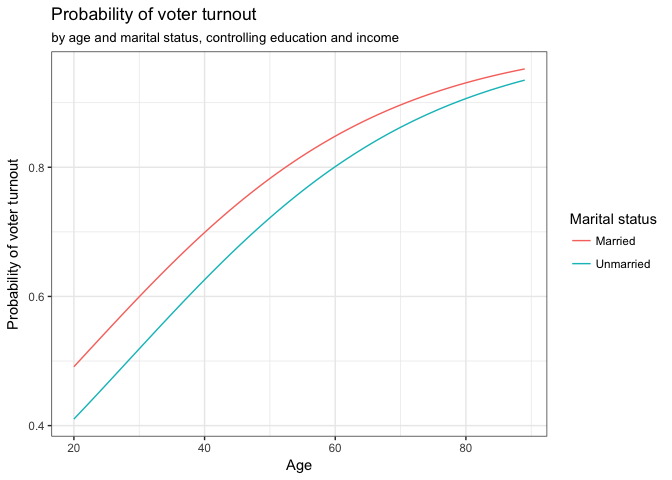
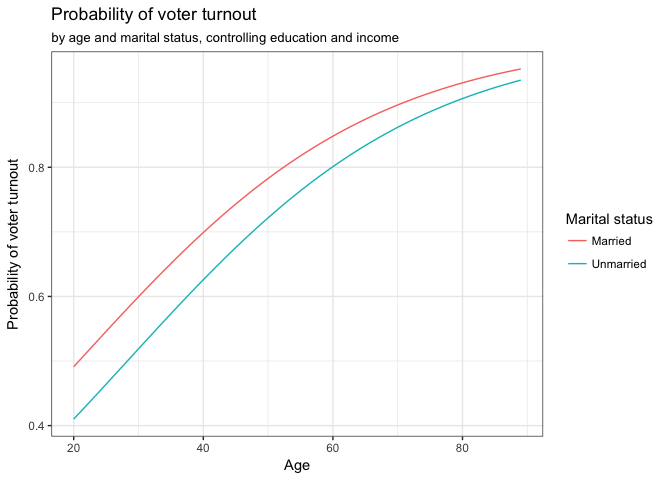
some modifications

diff --git a/students/Ju_Tong/PS6/ps6.md b/students/Ju_Tong/PS6/ps6.md
@@ -82,7 +82,9 @@ pander(m)
 </tbody>
 </table>
 
-1)As the table shown above, the unconditional probability of a given individual turning out to vote is 68.24%. 2)The scatterplot with the linear smoothing line indicates, in general, people who are more depressive (with higher value of mental health index) will be less likely to vote. Therefore, there is certain association between mental health with the action of voting based on this plotting. However, this graph is very misleading when considering the relationship between voting status (binary variable) and the mental health index (discrete variable): 1) most importantly,the voter turnout follows the binorminal distribution, whose feature cannot be captured by the linear relationship. Since voter turnout is dichotomous, with no possile outcomes in between, the regression line is misleading. 2) Even though we consider the predicted value by the regression line between 0 and 1 as the predicted probability, there are still other problems: because the regression line is linear and continuous, it extends infinitely in both directions of the mental health index. But as we know, the predictions based on the mental health value, lower than 0 or higher than 9, do not make any sense. 3) According to this linear regression, there is no upper and lower bound for the predicted voting probability, the prediction may exceed 1.0 or may be lower than 0, which do not comply with the definition that the probability is between 0 and 1.
+1)As the table shown above, the unconditional probability of a given individual turning out to vote is 68.24%.
+
+2)The scatterplot with the linear smoothing line indicates, in general, people who are more depressive (with higher value of mental health index) will be less likely to vote. Therefore, there is certain association between mental health with the action of voting based on this plotting. However, this graph is very misleading when considering the relationship between voting status (binary variable) and the mental health index (discrete variable): 1) most importantly,the voter turnout follows the binorminal distribution, whose feature cannot be captured by the linear relationship. Since voter turnout is dichotomous, with no possile outcomes in between, the regression line is misleading. 2) Even though we consider the predicted value by the regression line between 0 and 1 as the predicted probability, there are still other problems: because the regression line is linear and continuous, it extends infinitely in both directions of the mental health index. But as we know, the predictions based on the mental health value, lower than 0 or higher than 9, do not make any sense. 3) According to this linear regression, there is no upper and lower bound for the predicted voting probability, the prediction may exceed 1.0 or may be lower than 0, which do not comply with the definition that the probability is between 0 and 1.
 
 2) Basic Model
 ==============
@@ -171,7 +173,7 @@ basic_pred<-df %>%
   mutate(odds = prob2odds(prob))
 ```
 
-1)We find a statistically significant relationship at the p &lt; .0005 level between depression score and voting behavior. The relationship is negative and the coefficient is -0.1435. Therefore, we can conclude that there is a statistically significant. The co-effecient on `mhealth_sum` is -0.1435, indicating that one-unit increase in depression score could result in the decrease of log-odds of voting by 0.1435. Thus, the association between these two variable is moderately substantive and negative.
+1)We find a statistically significant relationship at the p &lt; .0005 level between depression score and voting behavior. The relationship is negative ,and the co-effecient on `mhealth_sum` is -0.1435, indicating that one-unit increase in depression score could result in the decrease of log-odds of voting by 0.1435. Thus, the association between these two variable is moderately substantive and negative.
 
 ``` r
 # log odds plotting
@@ -201,7 +203,7 @@ ggplot(basic_pred, aes(mhealth_sum)) +
 
 ![](ps6_files/figure-markdown_github/basic%20model%203-1.png)
 
-3)Interpretation of the estimated parameter for mental health in terms of odds: as each one unit increase in mental health score, we expect to see 86.63% (note: it is calculated from exp(-0.1435) ) decrease of the odds of voting.
+3)Interpretation of the estimated parameter for mental health in terms of odds: as each one unit increase in mental health score, we expect to see 86.63% (note: it is calculated from exp(-0.1435) ) decrease of the odds of voting. ( note: A one-unit increase in `mhealth_sum` corresponds to a differential decrease in the odds of voter turnout. The amount of the change in the odds of voter turnout depends on the initial value of `mhealth_sum`; In addition, the 86.63% means "decrease to 95.88% of the initial odds")
 
 ``` r
 # probability plotting
@@ -409,7 +411,9 @@ pander(summary(logit_m))
 
 3)Based on the summarized table above, three variables in this model have statistically significant associations (p-value &lt; 0.005) with voting variable: p-value for age, education, and income are 2.125e-20 , 3.052e-16 , and 0.002008. For variable of married status has only moderately statistical significance with voting rurnout, p-value is around 0.03051. In addition, all four independent variables have positive relation with voter turnout, and the co-effecient on age, education, maritial status and income are 0.04388, 0.3279, 0.08077, separately.
 
-Interpretation of co-effecients in terms of log odds, odds: As each one year increase in age, we expect the log-odds of voting status to increase by 0.04388;and expect to see see 104.49% increase in the odds of voting, when holding other variables constant. As each one year increase in education year, we expect the log-odds of voting status to increase by 0.2384; and expect to see see 126.93% increase in the odds of voting, when holding other variables constant. As each 10k increase in annual income, we expect the log-odds of voting status to increase by 0.08077; and expect to see see 108.41% increase in the odds of voting, when holding other variables constant. Married people has higher log odds of voting than unmarried ones by factor of 0.3279; or say, Married people has increased their odds of voting by 138.81% than those unmarried ones, when controlling all the other variables.
+Interpretation of co-effecients in terms of log odds, odds and probability: (Note:The amount of the change in the odds of voter turnout depends on the initial values. So in this section, when I talk about the odds change, I compare the odds variation before and after one unit change in independent variables)
+
+As each one year increase in age, we expect the log-odds of voting status to increase by 0.04388;and expect to see 104.49% increase in the odds of voting, when holding other variables constant.(Note: the 104.49% means "increase to 104.49% of the initial odds". All the following percentages have the similar meaning.) As each one year increase in education year, we expect the log-odds of voting status to increase by 0.2384; and expect to see 126.93% increase in the odds of voting, when holding other variables constant. As each 10k increase in annual income, we expect the log-odds of voting status to increase by 0.08077; and expect to see 108.41% increase in the odds of voting, when holding other variables constant. Married people has higher log odds of voting than unmarried ones by factor of 0.3279; or say, Married people have 138.81% fold odds than those unmarried ones, when controlling all the other variables.
 
 Holding the income and education year as their means, the probability of voting is estimated by age and maritial status. The result is plotted as below, which indicates that as the age increases, the probability of being a viter will increase, and the married people are more likely to vote than those who are unmarried. Taken together, people who are elder and married have higher possibility to vote than those younger and unmarried. For example, At age 20, the turnout rate is 5% higher for married people than unmarried people; at age 80, the difference shrinks to around 2.5%. This result is consistent with the literature's hypothesis.
 
@@ -424,7 +428,7 @@ pred_1<- df %>%
 ggplot (pred_1 , aes(age, prob, color = ifelse(married == 1, 'Married', 'Unmarried')))+
   theme_bw()+
   geom_line() +
-  scale_color_discrete(name = "Marital status") +
+  scale_color_discrete(name = "Marital status ") +
   labs(title = "Probability of voter turnout",
        subtitle = "by age and marital status, controlling education and income",
        x = "Age",
@@ -446,14 +450,16 @@ pred_2<- df %>%
 ggplot (pred_2 , aes(educ, prob, color = ifelse(married == 1, 'Married', 'Unmarried')))+
   theme_bw()+
   geom_line() +
-  scale_color_discrete(name = "Marital status") +
+  scale_color_discrete(name = "Marital status ") +
   labs(title = "Probability of voter turnout",
        subtitle = "by education and marital status, controlling age and income",
        x = "Education years",
        y = "Probability of voter turnout")
 ```
 
-![](ps6_files/figure-markdown_github/multi%203-1.png) These two plots have shown there are positive relationship between age or education year with the probability to vote. In addition, married people are more likely to vote than those unmarried.
+![](ps6_files/figure-markdown_github/multi%203-1.png)
+
+These two plots have shown there are positive relationships between age or education year with the probability to vote. In addition, married people are more likely to vote than those unmarried.
 
 4) Modeling TV Consumption
 ==========================
@@ -469,3 +475,130 @@ Linear predictor: The linear preditor is the following log-linear regression mod
 Link function: The link function for the Poisson distribution is the log function:
 
 ![](data/4-3.png)
+
+2)Estimate the model and report results:
+
+``` r
+#Fit model
+poisson_1 <- glm(tvhours ~ educ + hrsrelax + black, data = gss, family = quasipoisson)
+pander(summary(poisson_1))
+```
+
+<table style="width:86%;">
+<colgroup>
+<col width="25%" />
+<col width="15%" />
+<col width="18%" />
+<col width="13%" />
+<col width="13%" />
+</colgroup>
+<thead>
+<tr class="header">
+<th align="center"> </th>
+<th align="center">Estimate</th>
+<th align="center">Std. Error</th>
+<th align="center">t value</th>
+<th align="center">Pr(&gt;|t|)</th>
+</tr>
+</thead>
+<tbody>
+<tr class="odd">
+<td align="center"><strong>educ</strong></td>
+<td align="center">-0.04208</td>
+<td align="center">0.008189</td>
+<td align="center">-5.139</td>
+<td align="center">3.317e-07</td>
+</tr>
+<tr class="even">
+<td align="center"><strong>hrsrelax</strong></td>
+<td align="center">0.03702</td>
+<td align="center">0.006772</td>
+<td align="center">5.466</td>
+<td align="center">5.807e-08</td>
+</tr>
+<tr class="odd">
+<td align="center"><strong>black</strong></td>
+<td align="center">0.4463</td>
+<td align="center">0.05084</td>
+<td align="center">8.779</td>
+<td align="center">7.032e-18</td>
+</tr>
+<tr class="even">
+<td align="center"><strong>(Intercept)</strong></td>
+<td align="center">1.257</td>
+<td align="center">0.1207</td>
+<td align="center">10.41</td>
+<td align="center">3.7e-24</td>
+</tr>
+</tbody>
+</table>
+
+(Dispersion parameter for quasipoisson family taken to be 1.176556 )
+
+<table style="width:61%;">
+<colgroup>
+<col width="26%" />
+<col width="34%" />
+</colgroup>
+<tbody>
+<tr class="odd">
+<td align="center">Null deviance:</td>
+<td align="left">1229 on 1005 degrees of freedom</td>
+</tr>
+<tr class="even">
+<td align="center">Residual deviance:</td>
+<td align="left">1062 on 1002 degrees of freedom</td>
+</tr>
+</tbody>
+</table>
+
+Through examination of the models with variables provided forward and backward,education, relaxed hours,and black (or not) are chosen as the predictors estimating the voter turnout, since these three show stronger relationships in the tested models with the tv hours than others do. The model is estimated and reported as in the table above.
+
+3)As shown in the above table, all of three variables have statistically significant relationship with tv hours, the p-value for education, relaxed hours, and `black` are 3.317e-07, 5.807e-08, and 7.032e-18, respectively.Relaxed hours and `black` have positive relation with tv consumption, while education has a negative relation with it. The coeffeicent on each variable predicted by this model can be interpreted as below:
+
+As each one year increase in education year, we expect the log-counts of tv consumption to decrease by 0.04208 on average, when holding other variables constant; As each one hour increase in relax time, we expect the log-counts of tv consumption to increase by 0.03702 on average, when holding other variables constant; As for the coeffecient on `black`: On average, black people have higher log-counts of tv consumption than non-black ones by factor of 0.4463, when holding other variables constant.
+
+Since the estimated count of tv consumption hours is not in a linear relation with the independent varaibles, we cannot simply interpret the co-effecients in terms of the counts without regarding the initial count in comparison. First, I hold the education as its average value, and then examine how the ethinicity and relaxed hour can effect hours of tv consumption. According to the graph below, it is obvious that the predicted TV hours will increase as the relaxed hours extend, which indicates there is a strong and positive relationship between TV hours and relaxed hours. Also, the red curve (black people) is above the green curve (non-black people), indicating that there would be higher probability for black people to consume more TV than those non-black people, given the fixed relaxed hours and education background. Further, we can observe the interactive relationships between the independent variables in the model. As relaxed hours increase, the distance between the red and green lines are larger, indicating the larger difference between black and non-black people at higher levels of relaxing hours, regarding the time spending on watching TV.
+
+``` r
+# Add predicted prob and odds
+tv_poisson<- gss %>%
+  data_grid(educ= mean(educ, na.rm = TRUE), hrsrelax, black) %>%
+  add_predictions(poisson_1) %>%
+  mutate(count = exp(pred))
+
+
+ggplot(tv_poisson, aes(hrsrelax, count, color = ifelse (black == 1, 'Black', 'Non-black'))) +
+  theme_bw()+
+  geom_line() +
+  scale_color_discrete(name = "Ethnicity") +
+  labs(title = "Predicted Hours of TV consumption per day",
+       subtitle = "by relaxed hours and black (or not),holding years of education fixed at its mean ",
+       x = "Relaxed Hours",
+       y = "Predicted TV consumption hours")
+```
+
+![](ps6_files/figure-markdown_github/4-2-1.png)
+
+In the second plot (below),given the fixed relaxed hours at its average, there is a strong and negative association between TV consumption hours and education years. It suggests that people with more education would spend less time in TV consumption than those with less education, when holding the other varaibles fixed. It suggests that there is a strong and negative relationship between TV hours and relaxed hours. Also, the red curve (black people) is above the green curve (non-black people), indicating that there would be higher probability for black people to consume more TV than those non-black people, given the fixed relaxed hours and education background. Further, as education years increase, the distance between the red and green lines are smaller, indicating the smaller difference between black and non-black people at higher levels of education years, regarding the time spending on watching TV.
+
+``` r
+# Add predicted prob and odds
+tv_poisson<- gss %>%
+  data_grid(educ, hrsrelax=mean(hrsrelax, na.rm = TRUE), black) %>%
+  add_predictions(poisson_1) %>%
+  mutate(count = exp(pred))
+
+ggplot(tv_poisson, aes(educ, count, color = ifelse (black == 1, 'Black', 'Non-black'))) +
+  theme_bw()+
+  geom_line() +
+  scale_color_discrete(name = "Ethnicity") +
+  labs(title = "Predicted Hours of TV consumption per day",
+       subtitle = "by education and black (or not),holding relaxed hours fixed at its mean ",
+       x = "Education years",
+       y = "Predicted TV consumption hours")
+```
+
+![](ps6_files/figure-markdown_github/4-3-1.png)
+
+Taken together,
